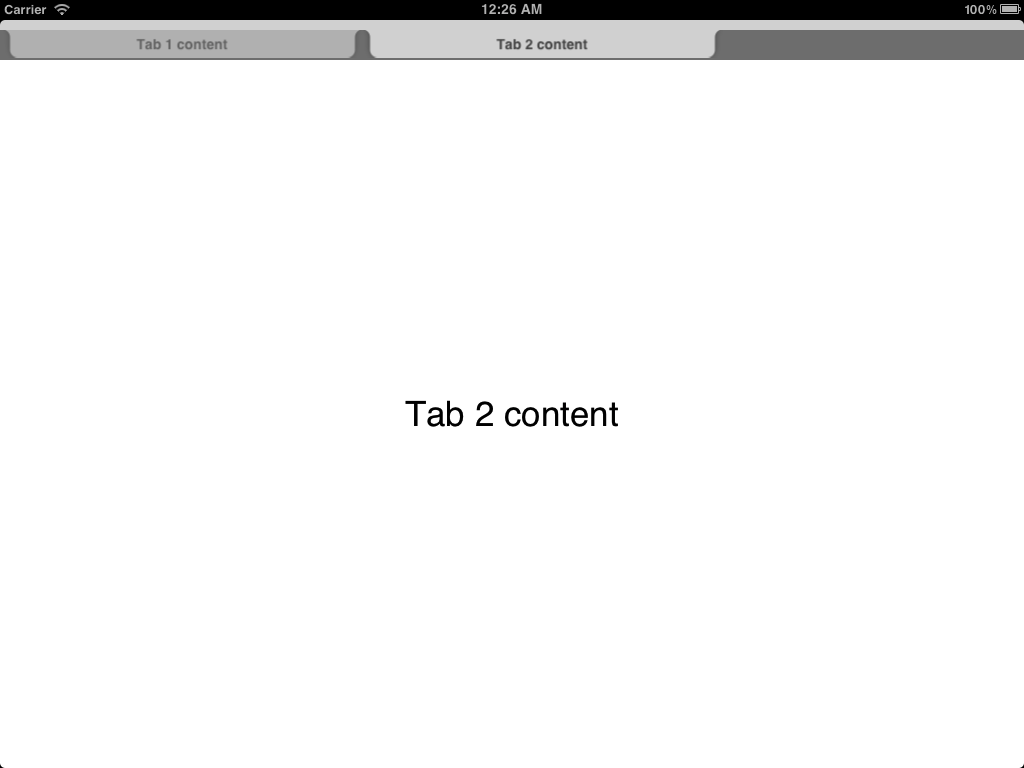
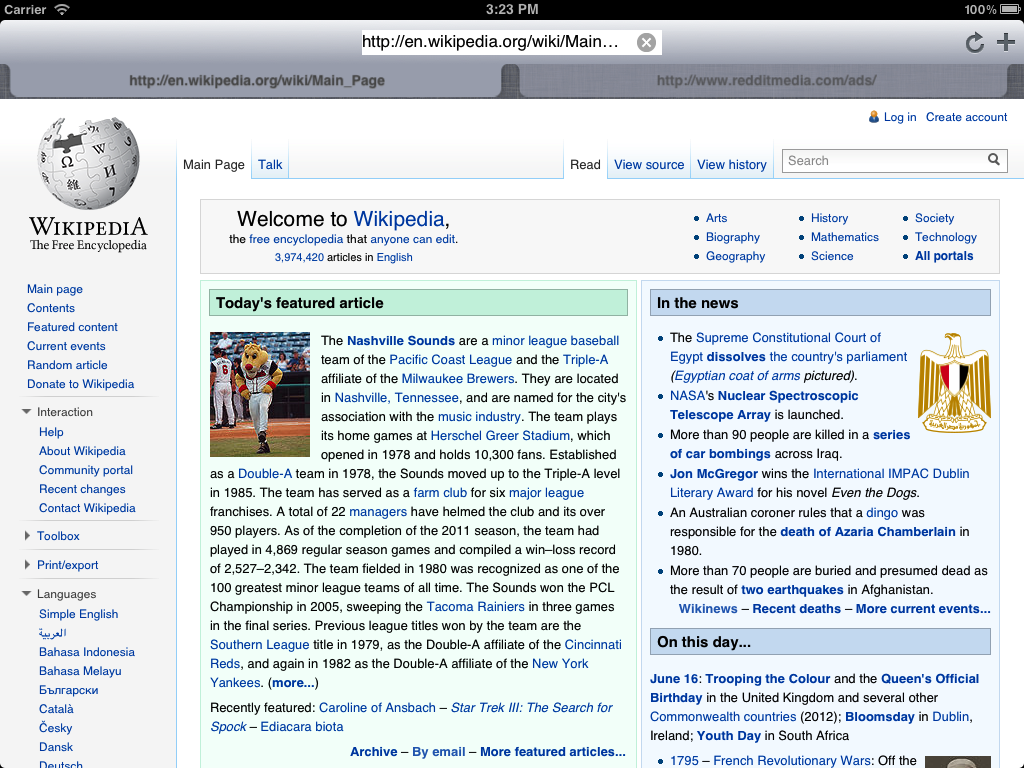
Tab titles are automatically updated now, new demo

diff --git a/Demo/SGTabs/SGViewController.m b/Demo/SGTabs/SGViewController.m
@@ -27,38 +27,47 @@
 @end
 
 @implementation SGViewController
-@synthesize label;
+@synthesize webView, textField = _textField;
 
 - (void)viewDidLoad
 {
     [super viewDidLoad];
-	// Do any additional setup after loading the view, typically from a nib.
-    self.label.text = self.title;
+    
+    self.webView.delegate = self;
+    self.textField = [[UITextField alloc] initWithFrame:CGRectMake(0, 0, 300.0, 25.0)];
+    self.textField.backgroundColor = [UIColor whiteColor];
+    self.textField.text = @"http://www.google.com";
+    self.textField.clearButtonMode = UITextFieldViewModeAlways;
+    self.textField.delegate = self;
+    [self textFieldDidEndEditing:self.textField];
+    
+    UIBarButtonItem *urlBar = [[UIBarButtonItem alloc] initWithCustomView:self.textField];
     
     UIBarButtonItem *space = [[UIBarButtonItem alloc] initWithBarButtonSystemItem:UIBarButtonSystemItemFlexibleSpace
                                                                            target:nil action:nil];
-    UIBarButtonItem *trash = [[UIBarButtonItem alloc] initWithBarButtonSystemItem:UIBarButtonSystemItemTrash 
-                                                                           target:self 
-                                                                           action:@selector(remove:)];
+    UIBarButtonItem *space2 = [[UIBarButtonItem alloc] initWithBarButtonSystemItem:UIBarButtonSystemItemFlexibleSpace
+                                                                           target:nil action:nil];
+    UIBarButtonItem *reload = [[UIBarButtonItem alloc] initWithBarButtonSystemItem:UIBarButtonSystemItemRefresh
+                                                                            target:self action:@selector(reload:)]; 
     UIBarButtonItem *add = [[UIBarButtonItem alloc] initWithBarButtonSystemItem:UIBarButtonSystemItemAdd 
                                                                          target:self 
                                                                          action:@selector(add:)];
-    self.toolbarItems = [NSArray arrayWithObjects:space, trash, add, nil];
+    UIBarButtonItem *trash = [[UIBarButtonItem alloc] initWithBarButtonSystemItem:UIBarButtonSystemItemTrash 
+                                                                           target:self 
+                                                                           action:@selector(remove:)];
+    SGTabsViewController *tabs = (SGTabsViewController *) self.parentViewController;
+    if (tabs.count)
+        self.toolbarItems = [NSArray arrayWithObjects:space,urlBar,space2,trash,reload,add,nil];
+    else
+        self.toolbarItems = [NSArray arrayWithObjects:space,urlBar,space2,reload,add,nil];
+    
 }
 
 - (void)viewDidUnload
 {
-    [self setLabel:nil];
+    [self setTextField:nil];
+    [self setWebView:nil];
     [super viewDidUnload];
-    // Release any retained subviews of the main view.
-}
-
-- (void)viewWillDisappear:(BOOL)animated {
-    NSLog(@"viewWillDisappear");
-}
-
-- (void)viewDidDisappear:(BOOL)animated {
-    NSLog(@"ViewDidDisappear");
 }
 
 - (BOOL)shouldAutorotateToInterfaceOrientation:(UIInterfaceOrientation)interfaceOrientation
@@ -69,10 +78,43 @@
         return YES;
     }
 }
+
+-  (BOOL)webView:(UIWebView *)webView shouldStartLoadWithRequest:(NSURLRequest *)request navigationType:(UIWebViewNavigationType)navigationType {
+    NSString *title = [request.URL absoluteString];
+    if (![self.title isEqualToString:title]) {
+        self.title = title;
+    }
+    if (navigationType == UIWebViewNavigationTypeLinkClicked)
+        self.textField.text = title;
+    
+    return YES;
+}
+
+- (void)textFieldDidEndEditing:(UITextField *)textField {
+    NSString *text = [textField.text lowercaseString];
+    if (![text hasPrefix:@"http://"] && ![text hasPrefix:@"https://"]) {
+        text = [NSString stringWithFormat:@"http://%@", text];
+    }
+    
+    NSURL *url = [NSURL URLWithString:text];
+    NSURLRequest *request = [NSURLRequest requestWithURL:url 
+                                             cachePolicy:NSURLCacheStorageAllowedInMemoryOnly 
+                                         timeoutInterval:10.];
+    [self.webView loadRequest:request];
+}
+
+- (BOOL)textFieldShouldReturn:(UITextField *)textField {
+    [textField resignFirstResponder];
+    return YES;
+}
                              
 - (IBAction)remove:(id)sender {
     SGTabsViewController *tabs = (SGTabsViewController *) self.parentViewController;
     [tabs removeViewController:self];
+}
+
+- (IBAction)reload:(id)sender {
+    [self.webView reload];
 }
 
 - (IBAction)add:(id)sender {

diff --git a/Source/SGTabsViewController.m b/Source/SGTabsViewController.m
@@ -121,6 +121,10 @@
         [self addChildViewController:viewController];
         [self.tabContents addObject:viewController];
         viewController.view.frame = _contentFrame;
+        [viewController addObserver:self
+                         forKeyPath:@"title"
+                            options:NSKeyValueObservingOptionNew
+                            context:NULL];
         
         if (_toobarVisible)
             [self.toolbar setItems:viewController.toolbarItems animated:YES];
@@ -147,6 +151,14 @@
     }
 }
 
+- (void)observeValueForKeyPath:(NSString *)keyPath ofObject:(id)object change:(NSDictionary *)change context:(void *)context {
+    if ([keyPath isEqualToString:@"title"]) {
+        NSUInteger index = [self.tabContents indexOfObject:object];
+        SGTabView *tab = [self.tabsView.tabs objectAtIndex:index];
+        [tab setTitle:[object title]];
+        [tab setNeedsLayout];
+    }
+}
 
 - (void)showViewController:(UIViewController *)viewController index:(NSUInteger)index {
     if (viewController == self.currentViewController 
@@ -190,6 +202,8 @@
     }
     
     [self.tabContents removeObjectAtIndex:index];
+    [viewController removeObserver:self forKeyPath:@"title"];
+    
     if (self.tabContents.count == 0) {//View controller was the last one
         [viewController willMoveToParentViewController:nil];
         _currentViewController = nil;

diff --git a/Demo/SGTabs/SGViewController.h b/Demo/SGTabs/SGViewController.h
@@ -22,8 +22,9 @@
 
 #import <UIKit/UIKit.h>
 
-@interface SGViewController : UIViewController 
+@interface SGViewController : UIViewController <UITextFieldDelegate, UIWebViewDelegate>
 
-@property (weak, nonatomic) IBOutlet UILabel *label;
+@property (weak, nonatomic) IBOutlet UIWebView *webView;
+@property (strong, nonatomic) UITextField *textField;
 
 @end

diff --git a/Demo/SGTabs/SGAppDelegate.m b/Demo/SGTabs/SGAppDelegate.m
@@ -50,7 +50,6 @@
     SGViewController *vc = [[SGViewController alloc] 
                             initWithNibName:NSStringFromClass([SGViewController class]) 
                             bundle:nil];
-    vc.title = [NSString stringWithFormat:@"Tab %i content", self.tabController.count+1];
     [self.tabController addTab:vc];
 }
 

diff --git a/README.md b/README.md
@@ -10,12 +10,12 @@ Tab component for iOS 5+. You can show your ViewControllers in tabs, it is possi
 - Show the UIBarButtonItems in viewController.toolbarItems in the toolbar
 - Enables you tobuild mobile Safari style Apps
 
+# Demo
+A basic web browser with tabs, in around 120 lines of code.
 
-# Screenshots
+## Screenshots
 
-![Multiple Tabs open](https://github.com/graetzer/SGTabs/raw/master/screen.png "Multiple Tabs open")
-
-![Toolbar visible](https://github.com/graetzer/SGTabs/raw/master/screen_Toolbar.png "A Toolbar with one element visible")
+![Multiple tabs](https://github.com/graetzer/SGTabs/raw/master/screen.png "A basic browser with visible toolbar")
 
 
 
